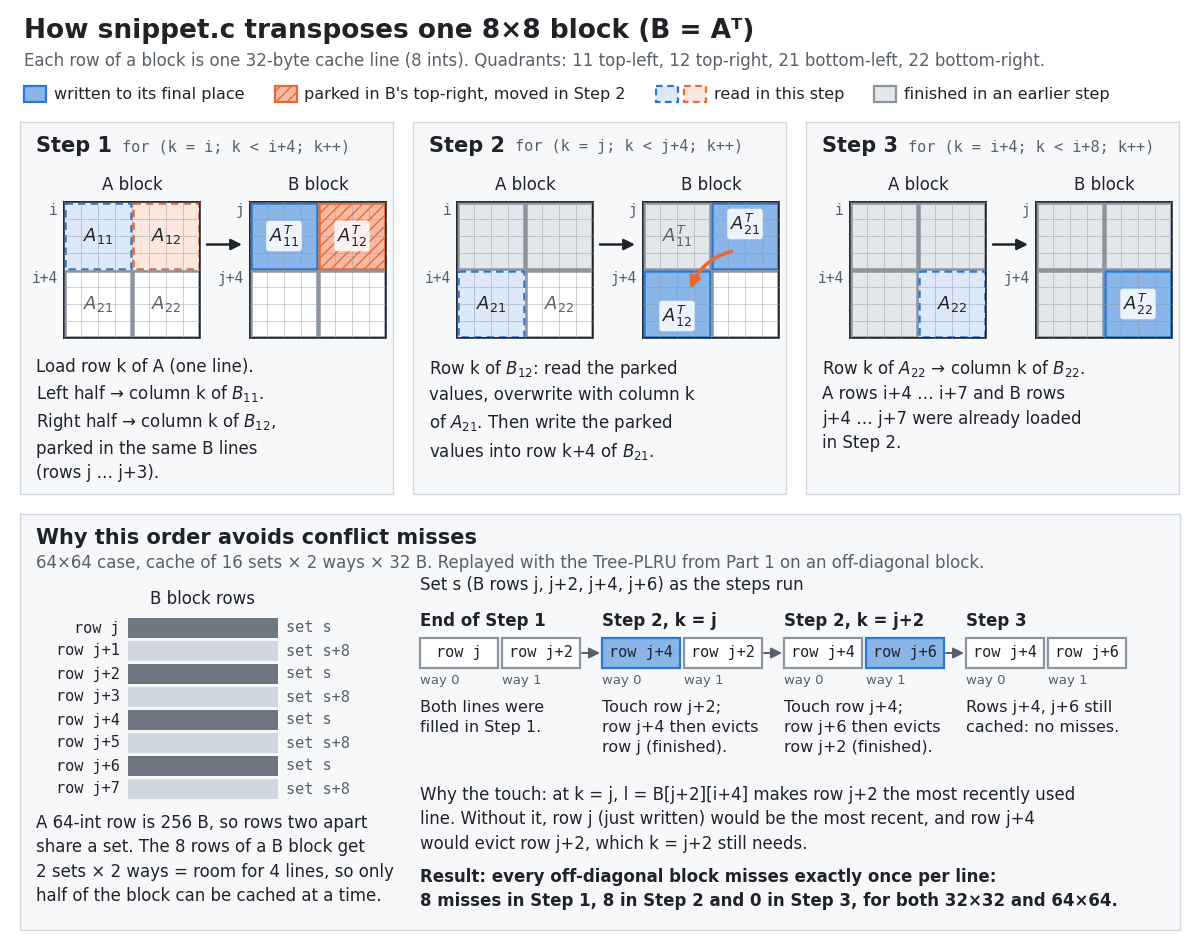
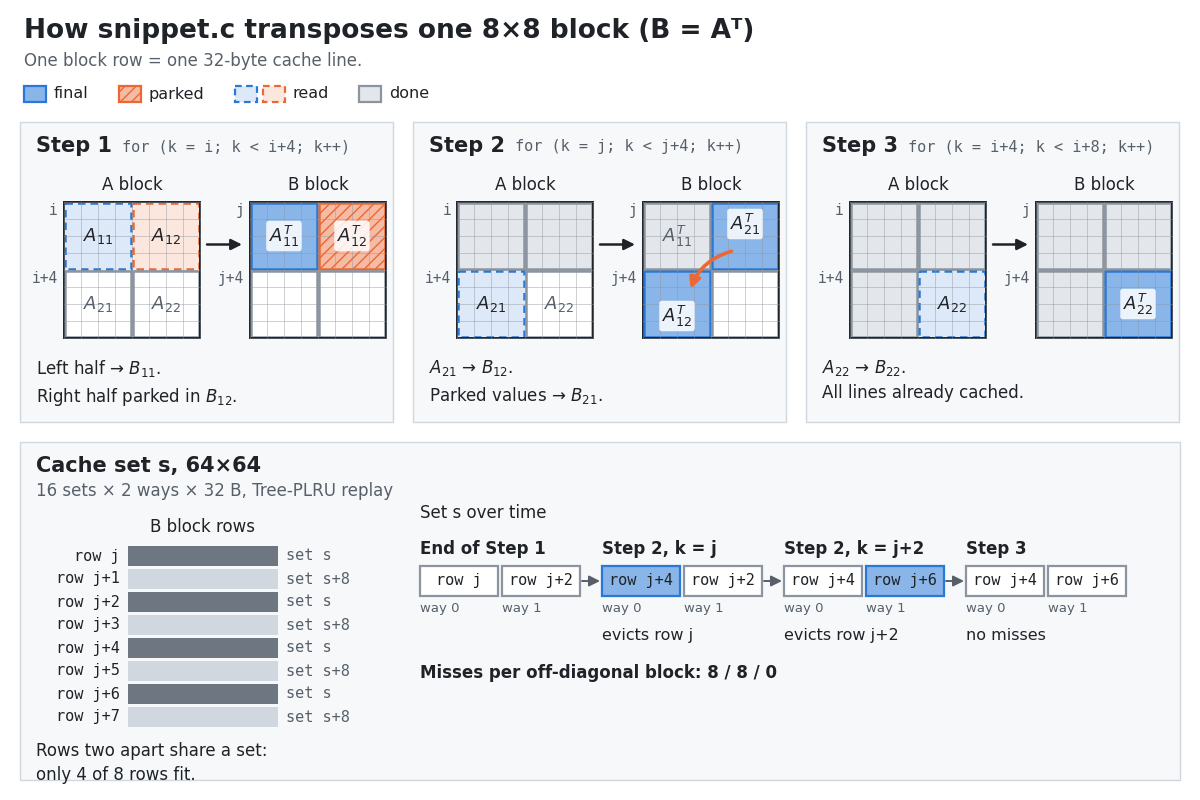
Transpose figure: cut the explanatory text down to labels

Changed region(s): [[0.0, 0.0, 0.9867, 1.0]]

diff --git a/docs/figures/make_transpose_figure.py b/docs/figures/make_transpose_figure.py
@@ -215,10 +215,10 @@ miss4_nt = next(e for e in ev_nt if e["step"] == 2 and not e["hit"] and e["row"]
 assert rel(miss4_nt["victim"]) == "row j+2"
 
 SNAPSHOTS = [
-    ("End of Step 1", snapshot(end1), None, "Both lines were\nfilled in Step 1."),
-    ("Step 2, k = j", snapshot(miss4), 0, "Touch row j+2;\nrow j+4 then evicts\nrow j (finished)."),
-    ("Step 2, k = j+2", snapshot(miss6), 1, "Touch row j+4;\nrow j+6 then evicts\nrow j+2 (finished)."),
-    ("Step 3", snapshot(end3), None, "Rows j+4, j+6 still\ncached: no misses."),
+    ("End of Step 1", snapshot(end1), None, ""),
+    ("Step 2, k = j", snapshot(miss4), 0, "evicts row j"),
+    ("Step 2, k = j+2", snapshot(miss6), 1, "evicts row j+2"),
+    ("Step 3", snapshot(end3), None, "no misses"),
 ]
 
 # --------------------------------------------------------------------------------------
@@ -240,7 +240,7 @@ def tint(hex_color, amount):
     return "#" + "".join(f"{round(255 - (255 - v) * amount):02x}" for v in rgb)
 
 
-W, H = 1200, 950
+W, H = 1200, 800
 fig = plt.figure(figsize=(W / 100, H / 100), dpi=100, facecolor=BG)
 ax = fig.add_axes([0, 0, 1, 1])
 ax.set_xlim(0, W)
@@ -318,15 +318,13 @@ def arrow(p, q, color, rad=0.0, lw=2.2, style="-|>", ls="-"):
 
 # ---- header ---------------------------------------------------------------------------
 text(24, 18, "How snippet.c transposes one 8×8 block (B = Aᵀ)", size=19, weight="bold")
-text(24, 52, "Each row of a block is one 32-byte cache line (8 ints). "
-     "Quadrants: 11 top-left, 12 top-right, 21 bottom-left, 22 bottom-right.",
-     size=12, color=MUTED)
+text(24, 52, "One block row = one 32-byte cache line.", size=12, color=MUTED)
 
 lx, ly = 24, 86
-for styles, label in ((("final",), "written to its final place"),
-                      (("parked",), "parked in B's top-right, moved in Step 2"),
-                      (("read_blue", "read_orange"), "read in this step"),
-                      (("done",), "finished in an earlier step")):
+for styles, label in ((("final",), "final"),
+                      (("parked",), "parked"),
+                      (("read_blue", "read_orange"), "read"),
+                      (("done",), "done")):
     for n_sw, style in enumerate(styles):
         st = STYLE[style]
         ax.add_patch(Rectangle((lx, ly), 22, 16, facecolor=st["face"], edgecolor=st["edge"],
@@ -336,7 +334,7 @@ for styles, label in ((("final",), "written to its final place"),
     lx += 2 + width(label, 11.5) + 30
 
 # ---- step panels ----------------------------------------------------------------------
-PX, PY, PW, PH, GAP = 20, 122, 373, 372, 20
+PX, PY, PW, PH, GAP = 20, 122, 373, 300, 20
 CELL = 17
 steps = [
     dict(title="Step 1", code="for (k = i; k < i+4; k++)",
@@ -345,28 +343,21 @@ steps = [
                         "21": ("$A_{21}$", 0), "22": ("$A_{22}$", 0)}),
          b=dict(quads={"11": "final", "12": "parked"},
                 labels={"11": ("$A_{11}^{T}$", 0), "12": ("$A_{12}^{T}$", 0)}),
-         body="Load row k of A (one line).\n"
-              "Left half → column k of $B_{11}$.\n"
-              "Right half → column k of $B_{12}$,\n"
-              "parked in the same B lines\n(rows j … j+3)."),
+         body="Left half → $B_{11}$.\nRight half parked in $B_{12}$."),
     dict(title="Step 2", code="for (k = j; k < j+4; k++)",
          a=dict(quads={"11": "done", "12": "done", "21": "read_blue"},
                 labels={"21": ("$A_{21}$", 0), "22": ("$A_{22}$", 0)}),
          b=dict(quads={"11": "done", "12": "final", "21": "final"},
                 labels={"11": ("$A_{11}^{T}$", 0), "12": ("$A_{21}^{T}$", -12),
                         "21": ("$A_{12}^{T}$", 12)}),
-         body="Row k of $B_{12}$: read the parked\n"
-              "values, overwrite with column k\nof $A_{21}$. "
-              "Then write the parked\nvalues into row k+4 of $B_{21}$.",
+         body="$A_{21}$ → $B_{12}$.\nParked values → $B_{21}$.",
          swap=True),
     dict(title="Step 3", code="for (k = i+4; k < i+8; k++)",
          a=dict(quads={"11": "done", "12": "done", "21": "done", "22": "read_blue"},
                 labels={"22": ("$A_{22}$", 0)}),
          b=dict(quads={"11": "done", "12": "done", "21": "done", "22": "final"},
                 labels={"22": ("$A_{22}^{T}$", 0)}),
-         body="Row k of $A_{22}$ → column k of $B_{22}$.\n"
-              "A rows i+4 … i+7 and B rows\n"
-              "j+4 … j+7 were already loaded\nin Step 2."),
+         body="$A_{22}$ → $B_{22}$.\nAll lines already cached."),
 ]
 for n_step, st in enumerate(steps):
     x0 = PX + n_step * (PW + GAP)
@@ -387,10 +378,8 @@ for n_step, st in enumerate(steps):
 # ---- bottom panel: why the order matters ----------------------------------------------
 BY, BH = PY + PH + 20, H - (PY + PH + 20) - 20
 panel(PX, BY, W - 2 * PX, BH)
-text(PX + 16, BY + 14, "Why this order avoids conflict misses", size=15, weight="bold")
-text(PX + 16, BY + 40, "64×64 case, cache of 16 sets × 2 ways × 32 B. "
-     "Replayed with the Tree-PLRU from Part 1 on an off-diagonal block.",
-     size=12, color=MUTED)
+text(PX + 16, BY + 14, "Cache set s, 64×64", size=15, weight="bold")
+text(PX + 16, BY + 40, "16 sets × 2 ways × 32 B, Tree-PLRU replay", size=12, color=MUTED)
 
 # left: row -> set mapping of the B block
 rx, ry, rw, rh = PX + 108, BY + 104, 150, 20
@@ -403,15 +392,12 @@ for r in range(8):
     text(rx + rw + 8, ry + r * (rh + 3) + rh / 2, "set s" if r % 2 == 0 else "set s+8",
          size=11, family=MONO, ha="left", va="center", color=MUTED)
 text(PX + 16, ry + 8 * (rh + 3) + 12,
-     "A 64-int row is 256 B, so rows two apart\n"
-     "share a set. The 8 rows of a B block get\n"
-     "2 sets × 2 ways = room for 4 lines, so only\n"
-     "half of the block can be cached at a time.",
+     "Rows two apart share a set:\nonly 4 of 8 rows fit.",
      size=12, linespacing=1.45)
 
 # right: contents of set s over time, straight from the replay
 sx0, sy = PX + 400, BY + 92
-text(sx0, sy - 12, "Set s (B rows j, j+2, j+4, j+6) as the steps run", size=12,
+text(sx0, sy - 12, "Set s over time", size=12,
      va="bottom")
 slot_w, slot_h, snap_gap = 82, 30, 18
 for n_snap, (title, ways, new_way, note) in enumerate(SNAPSHOTS):
@@ -431,15 +417,7 @@ for n_snap, (title, ways, new_way, note) in enumerate(SNAPSHOTS):
         arrow((x + 2 * slot_w - 2, sy + 32 + slot_h / 2),
               (x + 2 * slot_w + snap_gap - 2, sy + 32 + slot_h / 2), MUTED, lw=1.4)
 
-text(sx0, sy + 180,
-     "Why the touch: at k = j, l = B[j+2][i+4] makes row j+2 the most recently used\n"
-     "line. Without it, row j (just written) would be the most recent, and row j+4\n"
-     "would evict row j+2, which k = j+2 still needs.",
-     size=12, linespacing=1.45)
-text(sx0, sy + 262,
-     "Result: every off-diagonal block misses exactly once per line:\n"
-     "8 misses in Step 1, 8 in Step 2 and 0 in Step 3, for both 32×32 and 64×64.",
-     size=12, linespacing=1.45, weight="bold")
+text(sx0, sy + 130, "Misses per off-diagonal block: 8 / 8 / 0", size=12, weight="bold")
 
 fig.savefig(OUT, dpi=100, facecolor=BG)
 print(f"wrote {OUT} ({W}x{H}px); replay matches README miss counts {README_MISSES}")
